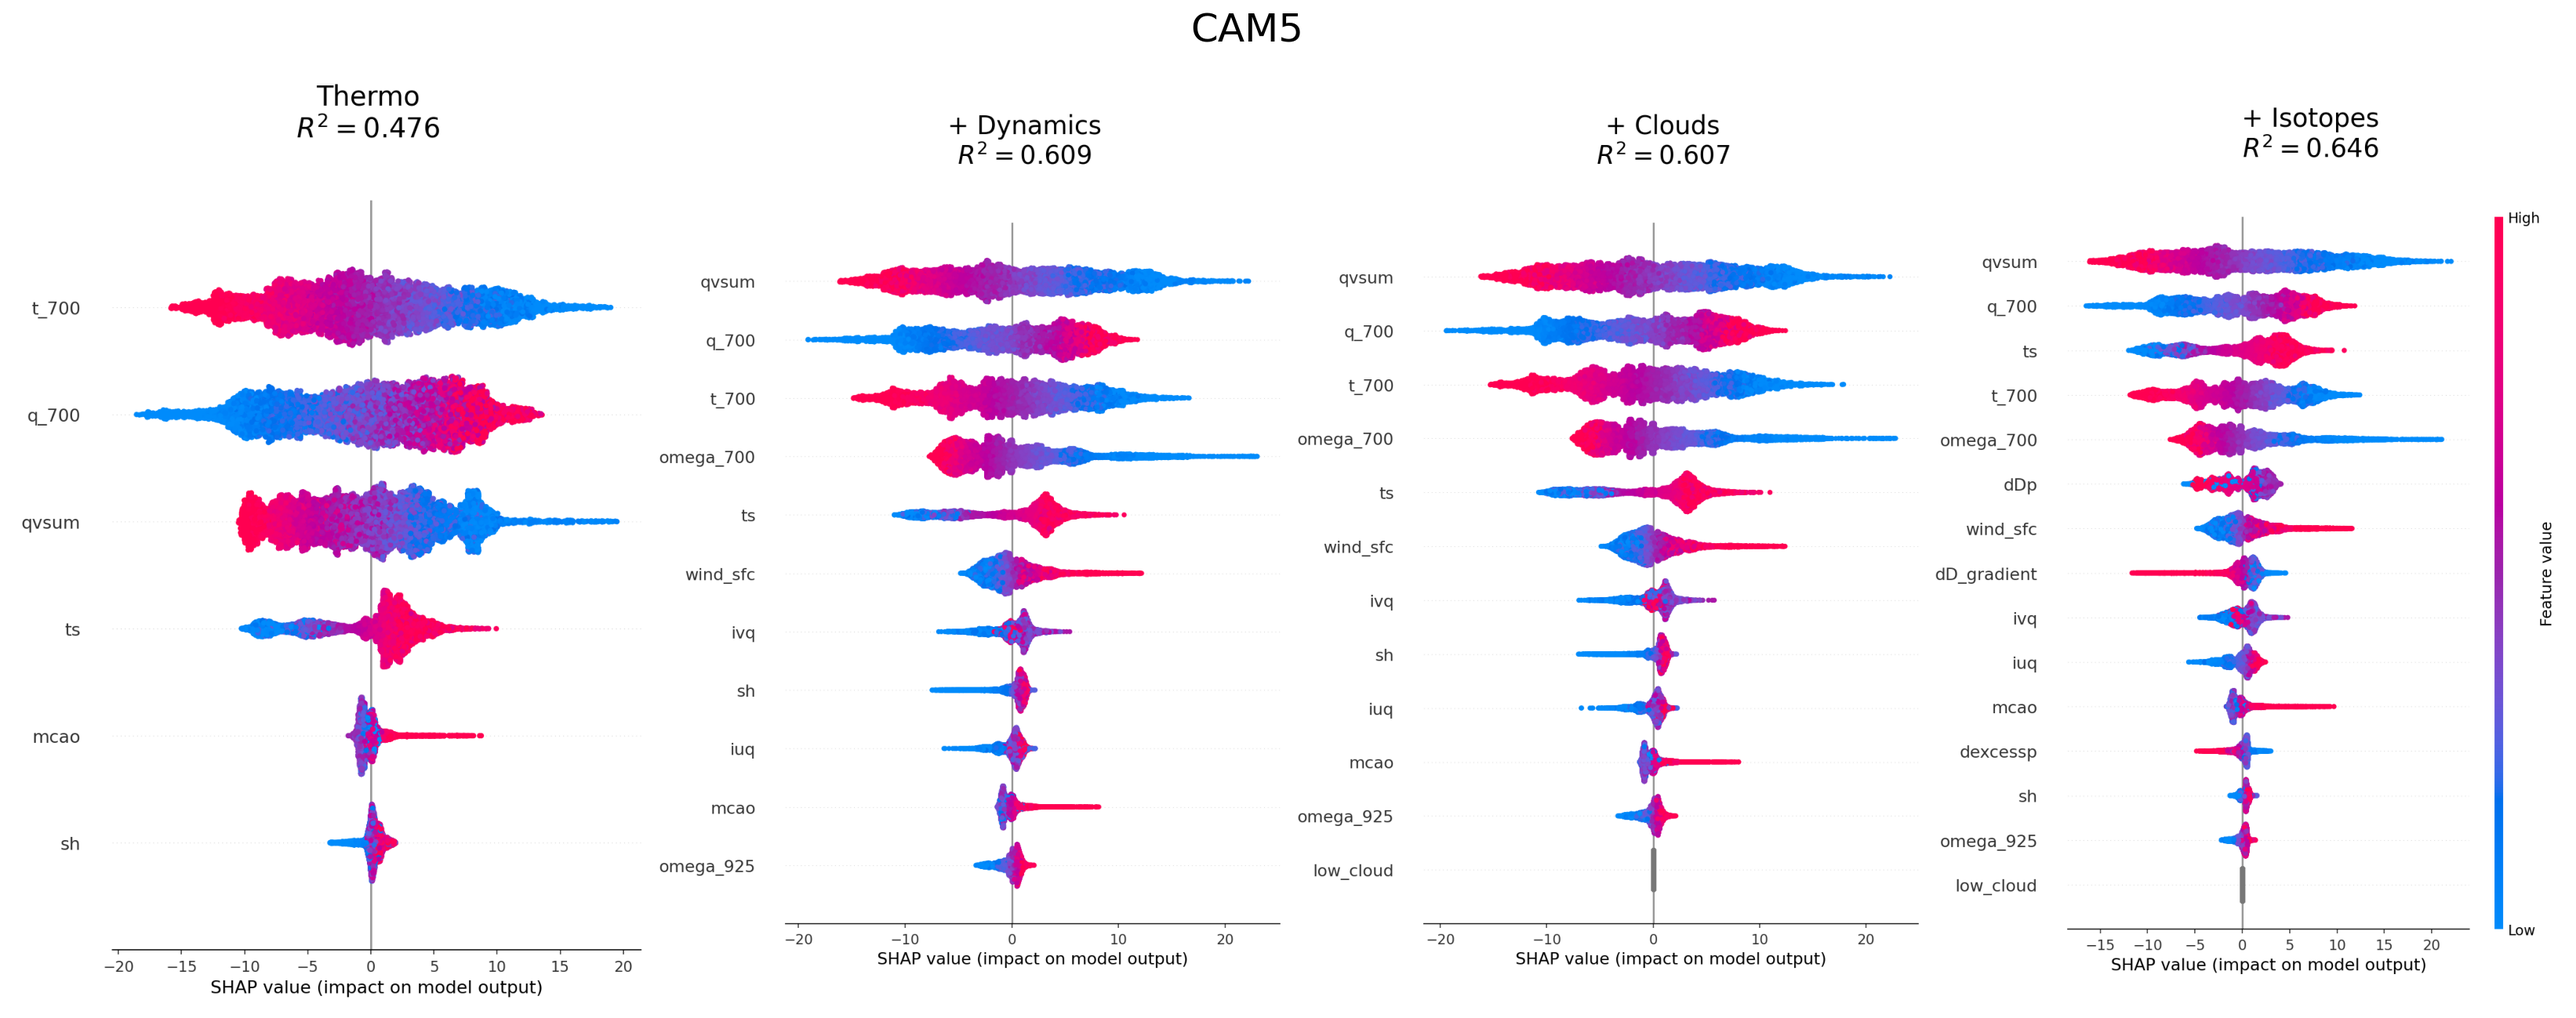
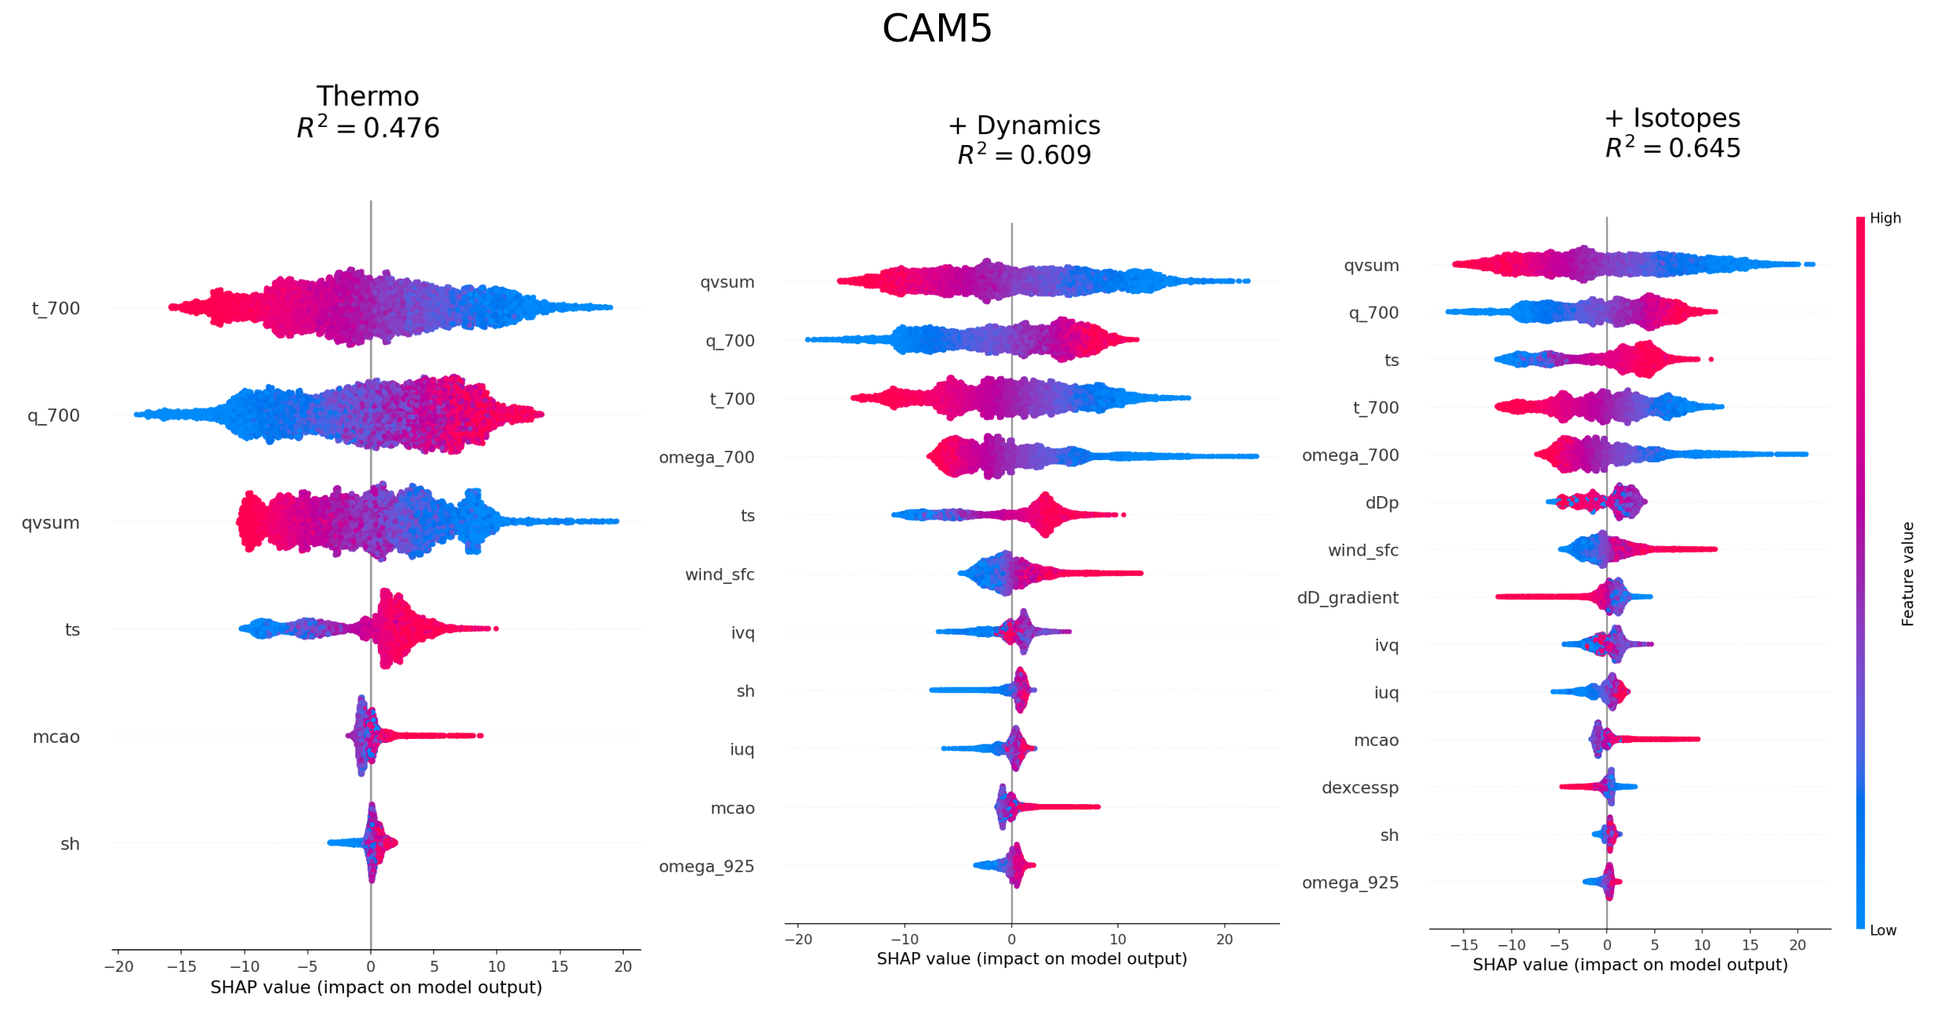
model-aware staging for cam5

diff --git a/src/swing3/config.py b/src/swing3/config.py
@@ -16,10 +16,35 @@ STAGED_MODELS: list[tuple[str, list[str]]] = [
     ("Stage 4: + Isotopes", ["thermo", "dynamics", "clouds", "isotopes"]),
 ]
 
+# Groups to exclude entirely for specific models (e.g. CAM5 has no cloud data).
+MODEL_EXCLUDED_GROUPS: dict[str, set[str]] = {
+    "CAM5": {"clouds"},
+}
+
 
 def columns_for_stage(groups: list[str]) -> list[str]:
     """Return the flat list of feature column names for the given group keys."""
     return [col for g in groups for col in PREDICTOR_GROUPS[g]]
+
+
+def stages_for_model(model_name: str) -> list[tuple[str, list[str]]]:
+    """Return STAGED_MODELS filtered to exclude this model's excluded groups.
+
+    A stage is dropped if it adds no new (non-excluded) groups relative to the
+    previous included stage. E.g. CAM5 (excluded: clouds) gets:
+      Stage 1, Stage 2, Stage 4  (Stage 3 is skipped because its only new group
+      is clouds).
+    """
+    excluded = MODEL_EXCLUDED_GROUPS.get(model_name, set())
+    result: list[tuple[str, list[str]]] = []
+    prev_groups: set[str] = set()
+    for stage_name, group_keys in STAGED_MODELS:
+        filtered = [g for g in group_keys if g not in excluded]
+        new_groups = set(filtered) - prev_groups
+        if new_groups:
+            result.append((stage_name, filtered))
+            prev_groups = set(filtered)
+    return result
 
 
 GROUP_COLORS: dict[str, str] = {
@@ -34,4 +59,28 @@ GROUP_LABELS: dict[str, str] = {
     "dynamics": "Dynamics",
     "clouds": "Clouds",
     "isotopes": "Isotopes",
+}
+
+# Data source classification for each predictor variable.
+# satellite     - retrievable from passive/active remote sensing
+# reanalysis    - requires data assimilation or model-derived fields
+# isotope_model - isotope-enabled model output; not directly observable
+VARIABLE_DATA_SOURCES: dict[str, str] = {
+    "low_cloud": "satellite",
+    "ts": "satellite",
+    "qvsum": "satellite",
+    "q_700": "satellite",
+    "t_700": "satellite",
+    "mcao": "reanalysis",
+    "sh": "reanalysis",
+    "wind_sfc": "reanalysis",
+    "iuq": "reanalysis",
+    "ivq": "reanalysis",
+    "omega_925": "reanalysis",
+    "omega_700": "reanalysis",
+    "dD_gradient": "isotope_model",
+    "dDp": "isotope_model",
+    "dexcessp": "isotope_model",
+    "dDs": "isotope_model",
+    "dexcesss": "isotope_model",
 }

diff --git a/src/swing3/plot_shap.py b/src/swing3/plot_shap.py
@@ -11,9 +11,15 @@ import shap
 from nc.loader import PROJECT_ROOT
 from swing3.config import (
     MODELS,
+    PREDICTOR_GROUPS,
     STAGED_MODELS,
 )
-from swing3.shap_analysis import run_staged_analysis
+from swing3.shap_analysis import (
+    run_forward_model,
+    run_staged_analysis,
+    run_surface_isotopes_added,
+    run_surface_isotopes_replace,
+)
 
 SHAP_PLOTS_DIR = os.path.join(PROJECT_ROOT, "output/remote/swing3/plots/shap")
 
@@ -109,15 +115,15 @@ def plot_intermodel_heatmap(all_results: dict[str, dict]) -> None:
 def plot_mcao_dependence(all_results: dict[str, dict]) -> None:
     model_names = list(all_results.keys())
     n_cols = 4
-    n_rows = (len(model_names) + n_cols - 1) // n_cols
     norm = mcolors.Normalize(vmin=0, vmax=100)
     cmap = shap.plots.colors.red_blue
 
     for stage_idx, (stage_name, _) in enumerate(STAGED_MODELS, start=1):
-        # Collect per-model data for this stage
         plot_data = []
         all_mcao_vals, all_shap_vals = [], []
         for model_name in model_names:
+            if stage_name not in all_results[model_name]:
+                continue
             result = all_results[model_name][stage_name]
             sv = result["shap_values"]
             X_full = result["X_full"]
@@ -137,9 +143,14 @@ def plot_mcao_dependence(all_results: dict[str, dict]) -> None:
             all_shap_vals.append(mcao_shap)
             plot_data.append((model_name, mcao_x, mcao_shap, cloud))
 
+        if not plot_data:
+            continue
+
         x_lo, x_hi = np.percentile(np.concatenate(all_mcao_vals), [0, 100])
         y_lo, y_hi = np.percentile(np.concatenate(all_shap_vals), [0, 100])
 
+        n_panels = len(plot_data)
+        n_rows = (n_panels + n_cols - 1) // n_cols
         fig, axes = plt.subplots(
             n_rows,
             n_cols,
@@ -192,7 +203,7 @@ def plot_mcao_dependence(all_results: dict[str, dict]) -> None:
             if col == 0:
                 ax.set_ylabel("SHAP value for MCAO", fontsize=12)
 
-        for idx in range(len(model_names), n_rows * n_cols):
+        for idx in range(n_panels, n_rows * n_cols):
             axes_flat[idx].set_visible(False)
 
         if sc_mappable is not None:

diff --git a/src/swing3/isotope_shap.py b/src/swing3/isotope_shap.py
@@ -6,7 +6,7 @@ from joblib import Parallel, delayed
 
 from nc.cache import MEMORY
 from nc.loader import PROJECT_ROOT
-from swing3.config import MODELS, PREDICTOR_GROUPS, STAGED_MODELS
+from swing3.config import MODELS, PREDICTOR_GROUPS
 from swing3.features import load_shap_features
 from swing3.shap_analysis import (
     _aggregate_runs,
@@ -53,19 +53,22 @@ def run_isotope_only_analysis(model_name: str, n_runs: int = 25) -> dict:
 def print_comparison_table(
     all_staged: dict[str, dict], all_isotope: dict[str, dict]
 ) -> None:
-    """Print isotope-only R2 alongside Stage 3 and Stage 4 R2 for each model."""
-    stage_3 = STAGED_MODELS[2][0]
-    stage_4 = STAGED_MODELS[3][0]
+    """Print isotope-only R2 alongside the penultimate and final staged R2 per model.
 
-    header = f"{'Model':<10}  {'Isotope-only':>12}  {'Stage 3':>8}  {'Stage 4':>8}  {'Delta (3->4)':>13}"
+    The penultimate stage is the last stage before isotopes were added; the final
+    stage is the full model including isotopes. For models without a clouds stage
+    (e.g. CAM5) these will differ from other models.
+    """
+    header = f"{'Model':<10}  {'Isotope-only':>12}  {'Pre-isotope':>12}  {'Final':>8}  {'Delta':>8}"
     print(header)
     print("-" * len(header))
     for model_name in MODELS:
+        stage_keys = list(all_staged[model_name].keys())
         iso = all_isotope[model_name]["r2_test_mean"]
-        s3 = all_staged[model_name][stage_3]["r2_test_mean"]
-        s4 = all_staged[model_name][stage_4]["r2_test_mean"]
+        s_pre = all_staged[model_name][stage_keys[-2]]["r2_test_mean"]
+        s_final = all_staged[model_name][stage_keys[-1]]["r2_test_mean"]
         print(
-            f"{model_name:<10}  {iso:>12.3f}  {s3:>8.3f}  {s4:>8.3f}  {s4 - s3:>13.3f}"
+            f"{model_name:<10}  {iso:>12.3f}  {s_pre:>12.3f}  {s_final:>8.3f}  {s_final - s_pre:>+8.3f}"
         )
 
 

diff --git a/output/remote/swing3/plots/shap/shap.md b/output/remote/swing3/plots/shap/shap.md
@@ -33,6 +33,54 @@ Each bar shows the fraction of Stage 4 R2 attributed to each predictor group (th
 
 ![Group Shapley attribution](group_shapley/group_shapley_attribution.png)
 
+The heatmap below shows each group's Shapley value as a fraction of Stage 4 R2, with the dominant group per model highlighted.
+
+![Group Shapley fraction heatmap](group_shapley/group_fraction_heatmap.png)
+
+Thermodynamics is the dominant predictor group in all seven models, accounting for 39–68% of Stage 4 R2. This is consistent across models despite substantial differences in absolute R2 (0.65–0.78) and in the relative contributions of dynamics, clouds, and isotopes.
+
+| Model | Dominant group | Fraction | Stage 4 R2 |
+|-------|---------------|----------|------------|
+| CAM5  | Thermodynamics | 0.548 | 0.650 |
+| CAM6  | Thermodynamics | 0.681 | 0.686 |
+| ECHAM | Thermodynamics | 0.387 | 0.657 |
+| GISS  | Thermodynamics | 0.547 | 0.642 |
+| GSM   | Thermodynamics | 0.441 | 0.777 |
+| LMDZ  | Thermodynamics | 0.455 | 0.648 |
+| MIROC | Thermodynamics | 0.560 | 0.723 |
+
+### Sensitivity: dDp excluded from isotope group
+
+To test whether the backward feature dDp (precipitation isotope ratio, which is co-determined with PE) drives the isotope group attribution, we re-ran the group Shapley computation with dDp removed, retaining only dD_gradient and dexcessp. If the isotope Shapley value drops substantially without dDp, it suggests dDp was carrying variance that is mechanistically circular. The table below compares isotope group Shapley values with and without dDp, alongside the full-coalition Stage 4 R2 for the no-dDp run.
+
+| Model | Isotopes (full) | Isotopes (no dDp) | Delta | Stage 4 R2 (no dDp) |
+|-------|-----------------|-------------------|-------|----------------------|
+| CAM5  | 0.119 ± 0.006   | 0.043 ± 0.003     | −0.076 | 0.627               |
+| CAM6  | 0.114 ± 0.005   | 0.089 ± 0.005     | −0.025 | 0.676               |
+| ECHAM | 0.150 ± 0.004   | 0.086 ± 0.002     | −0.064 | 0.618               |
+| GISS  | 0.160 ± 0.005   | 0.101 ± 0.007     | −0.059 | 0.617               |
+| GSM   | 0.182 ± 0.007   | 0.121 ± 0.006     | −0.061 | 0.748               |
+| LMDZ  | 0.117 ± 0.003   | 0.058 ± 0.001     | −0.059 | 0.627               |
+| MIROC | 0.114 ± 0.004   | 0.077 ± 0.003     | −0.037 | 0.721               |
+
+Removing dDp reduces the isotope Shapley value by 0.025–0.076 across models (median −0.059), confirming that dDp carries a meaningful share of the isotope group's marginal R2. However, even without dDp the isotope group retains a positive attribution (0.043–0.121) in every model, indicating that dD_gradient and dexcessp provide independent predictive signal beyond what thermodynamics, dynamics, and clouds capture. The reduction in Stage 4 R2 (full minus no-dDp, implied by the group Shapley sums) is consistent with dDp contributing real variance, though the physical interpretation of that contribution warrants caution.
+
+### Forward model: Stage 4 with dDp excluded
+
+As a complementary test, we trained the full Stage 4 XGBoost model (25 seeds, same CV design) with dDp removed and compared test R2 to the full Stage 4 model. A small delta confirms that dDp is not the primary driver of the Stage 4 predictions.
+
+| Model | Stage 4 R2 | No-dDp R2 | Delta |
+|-------|------------|-----------|-------|
+| CAM5  | 0.646      | 0.624     | −0.021 |
+| CAM6  | 0.680      | 0.674     | −0.006 |
+| ECHAM | 0.649      | 0.617     | −0.031 |
+| GISS  | 0.639      | 0.617     | −0.022 |
+| GSM   | 0.774      | 0.751     | −0.023 |
+| LMDZ  | 0.645      | 0.625     | −0.020 |
+| MIROC | 0.719      | 0.713     | −0.006 |
+
+The median R2 drop is 0.021, ranging from 0.006 (CAM6, MIROC) to 0.031 (ECHAM). This is modest relative to the full Stage 4 R2 (0.64–0.77), suggesting the model's predictive skill is not contingent on dDp. The residual isotope skill (from dD_gradient and dexcessp) is therefore not an artifact of circular reasoning through dDp.
+
 ---
 
 ## Isotope-only beeswarm plots
@@ -77,6 +125,42 @@ Each figure shows SHAP values for a model trained on only the three isotope pred
 Normalized mean |SHAP| per feature across all models.
 
 ![Intermodel heatmap](intermodel_heatmap.png)
+
+---
+
+## Within-group feature importance (Stage 4)
+
+Mean |SHAP| per feature within each predictor group, broken out by model. Shows which variables are load-bearing vs. redundant within each group.
+
+![Within-group importance](within_group_importance.png)
+
+---
+
+## Feature direction consistency across models (Stage 4)
+
+For each feature, the sign of its SHAP effect on PE: + means high feature values increase PE, − means they decrease PE, ? means the direction could not be determined (too many NaN values). Direction is computed as the sign of the Spearman correlation between feature values and SHAP values. **Bold / NO*** indicates the direction is inconsistent across models.
+
+| Feature | Group | CAM5 | CAM6 | ECHAM | GISS | GSM | LMDZ | MIROC | Consistent |
+|---------|-------|------|------|-------|------|-----|------|-------|------------|
+| mcao | thermo | + | − | + | + | + | + | + | NO * |
+| sh | thermo | + | + | + | + | + | + | + | YES |
+| qvsum | thermo | − | − | − | + | − | − | − | NO * |
+| q_700 | thermo | + | + | + | + | + | + | + | YES |
+| t_700 | thermo | − | − | − | − | − | − | − | YES |
+| ts | thermo | + | + | + | + | + | + | + | YES |
+| wind_sfc | dynamics | + | + | + | + | + | + | + | YES |
+| iuq | dynamics | + | + | + | + | + | + | + | YES |
+| ivq | dynamics | + | + | − | + | + | + | + | NO * |
+| omega_925 | dynamics | + | + | + | + | + | + | + | YES |
+| omega_700 | dynamics | − | − | − | − | − | − | − | YES |
+| low_cloud | clouds | ? | + | + | − | + | + | + | NO * |
+| dD_gradient | isotopes | − | − | − | − | − | + | + | NO * |
+| dDp | isotopes | − | − | − | − | − | − | − | YES |
+| dexcessp | isotopes | − | + | − | − | + | − | − | NO * |
+
+![Direction heatmap](direction_heatmap.png)
+
+Notable inconsistencies: mcao is negative in CAM6 only (opposite to all others); qvsum is positive in GISS only; dD_gradient flips sign in LMDZ and MIROC; dexcessp is inconsistent in 5 of 7 models. The universally negative direction of dDp (− in all 7 models) is consistent with dDp acting as a proxy for heavy precipitation events, which dilute PE.
 
 ---
 
